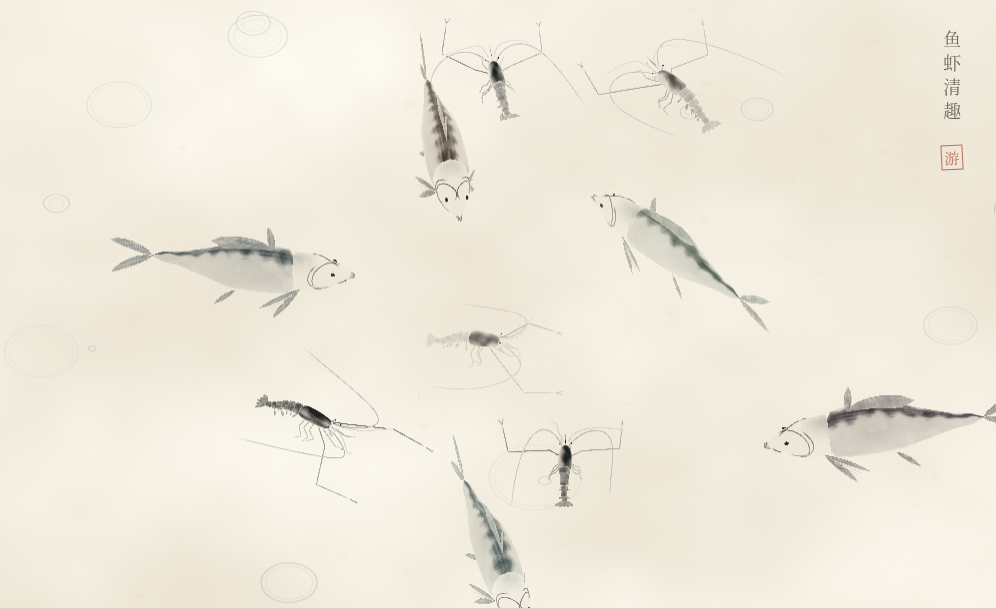
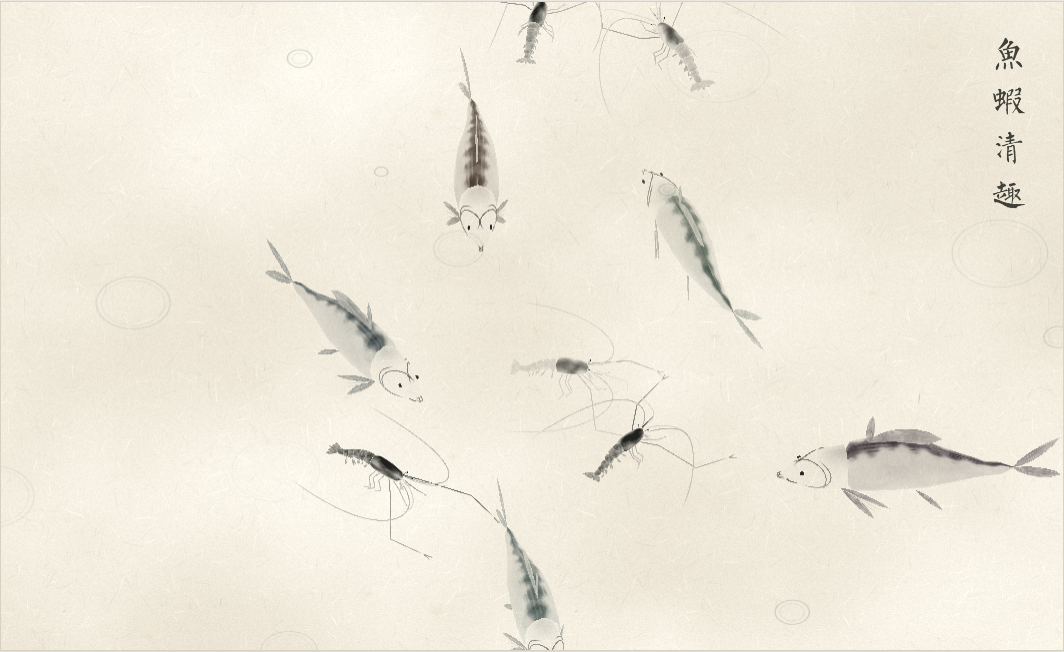
Add Liu Gongquan Kai inscription and adjustable fibrous paper

diff --git a/artworks/ink-pond/src/main.js b/artworks/ink-pond/src/main.js
@@ -6,7 +6,7 @@ import {createPond,DURATION,POPULATION_LIMITS} from './pond.js';
 import {createWaterCamera,resizeWaterCamera,describeWaterCamera} from './water-space.js';
 
 const $=id=>document.getElementById(id),container=$('painting'),play=$('play');
-const timeline=$('time'),wash=$('wash'),rain=$('rain'),status=$('status');
+const timeline=$('time'),wash=$('wash'),rain=$('rain'),paper=$('paper'),inscription=$('inscription'),status=$('status');
 const reducedMotion=matchMedia('(prefers-reduced-motion: reduce)');
 let playing=!reducedMotion.matches,time=0,current=0,last=performance.now(),view=null,speed=1;
 let autoQuality=true,lastQualityChange=0,lastStatus=0,previousFrame=0,cameraDirty=false,populationTimer;
@@ -31,6 +31,7 @@ function resize(){
 function setPlaying(value){playing=Boolean(value);last=performance.now();previousFrame=0;controls();status.textContent=playing?'Following the current':'Paused · drag to explore';}
 function setCurrent(value){current=THREE.MathUtils.clamp(value,-45,45);view.pond.setCurrent(current);renderFrame();}
 function setSpeed(value){speed=THREE.MathUtils.clamp(Number(value)||1,.25,2);$('speed').value=String(speed);$('speed-value').value=`${speed.toFixed(2).replace(/0$/,'')}×`;}
+function setPaperStrength(value){view.ink.setPaperStrength(value);paper.value=String(view.ink.describe().paperStrength);$('paper-value').value=`${Math.round(Number(paper.value)*100)}%`;renderFrame();}
 function setView({azimuthDegrees=-45,elevationDegrees=45,zoom=1}={}){
   const {camera,orbit}=view,az=THREE.MathUtils.degToRad(azimuthDegrees),el=THREE.MathUtils.degToRad(THREE.MathUtils.clamp(elevationDegrees,20,80));
   const damping=orbit.enableDamping;orbit.enableDamping=false;orbit.update();orbit.reset();orbit.target.set(0,0,0);camera.position.set(1800*Math.cos(el)*Math.cos(az),1800*Math.cos(el)*Math.sin(az),1800*Math.sin(el));
@@ -49,6 +50,7 @@ timeline.addEventListener('input',()=>{setPlaying(false);renderFrame(Number(time
 wash.addEventListener('input',()=>renderFrame());$('reset').addEventListener('click',reset);
 rain.addEventListener('input',()=>{view.pond.setRain(Number(rain.value));$('rain-value').value=`${Math.round(Number(rain.value)*100)}%`;renderFrame();});
 $('speed').addEventListener('input',()=>setSpeed($('speed').value));
+paper.addEventListener('input',()=>setPaperStrength(paper.value));
 for(const species of ['fish','shrimp']){
   $(species).max=String(POPULATION_LIMITS[species]);
   $(species).addEventListener('input',()=>{$(species+'-value').value=$(species).value;clearTimeout(populationTimer);populationTimer=setTimeout(()=>setPopulation(),150);});
@@ -60,10 +62,10 @@ $('save').addEventListener('click',()=>{
   const previousScale=view.ink.describe().renderScale;view.ink.setRenderScale(2);renderFrame();
   const exportCanvas=document.createElement('canvas'),canvas=view.ink.canvas;
   exportCanvas.width=canvas.width;exportCanvas.height=canvas.height;
-  const ctx=exportCanvas.getContext('2d');ctx.drawImage(canvas,0,0);const s=canvas.width/1800;
-  ctx.save();ctx.translate(canvas.width*.958,canvas.height*.063);ctx.fillStyle='#5b5b4d';
-  ctx.font=`${25*s}px "Noto Serif CJK SC",serif`;ctx.textAlign='center';[...'鱼虾清趣'].forEach((c,i)=>ctx.fillText(c,0,i*35*s));
-  ctx.strokeStyle='#a64532';ctx.fillStyle='#a64532';ctx.strokeRect(-12*s,150*s,24*s,29*s);ctx.font=`${19*s}px serif`;ctx.fillText('游',0,172*s);ctx.restore();
+  const ctx=exportCanvas.getContext('2d');ctx.drawImage(canvas,0,0);
+  const bounds=container.getBoundingClientRect(),writing=inscription.getBoundingClientRect(),sx=canvas.width/bounds.width,sy=canvas.height/bounds.height;
+  ctx.save();ctx.globalAlpha=Number(getComputedStyle(inscription).opacity);
+  ctx.drawImage(inscription,(writing.left-bounds.left)*sx,(writing.top-bounds.top)*sy,writing.width*sx,writing.height*sy);ctx.restore();
   view.ink.setRenderScale(previousScale);renderFrame();last=performance.now();
   exportCanvas.toBlob(blob=>{if(!blob)return;const a=document.createElement('a'),url=URL.createObjectURL(blob);a.href=url;a.download='fish-and-shrimp-in-ink.png';a.click();setTimeout(()=>URL.revokeObjectURL(url),1000);});
 });
@@ -73,6 +75,7 @@ reducedMotion.addEventListener('change',e=>{if(e.matches)setPlaying(false);});
 window.addEventListener('resize',resize);document.addEventListener('visibilitychange',()=>{last=performance.now();previousFrame=0;});
 
 async function init(){
+  await inscription.decode();
   const renderer=new THREE.WebGLRenderer({antialias:false,alpha:false,preserveDrawingBuffer:false,powerPreference:'high-performance'});
   renderer.setPixelRatio(1);renderer.setClearColor(0xf3eddf,0);renderer.outputColorSpace=THREE.LinearSRGBColorSpace;
   const camera=createWaterCamera(18/11),pond=createPond(),paint=await createInkAtlas();
@@ -105,7 +108,7 @@ async function init(){
       zoom:camera.zoom*(e.key==='+'||e.key==='='?1.12:e.key==='-'?1/1.12:1)});
   });
   window.pondPainting={ready:true,renderFrame(t){setPlaying(false);renderFrame(t);},setPlaying,setCurrent,setView,setPopulation,setSpeed,
-    setWashStrength(value){wash.value=String(value);renderFrame();},setPaperTone(value){view.ink.setPaperTone(value??[243,237,223]);renderFrame();},
+    setWashStrength(value){wash.value=String(value);renderFrame();},setPaperStrength,setPaperTone(value){view.ink.setPaperTone(value??[243,237,223]);renderFrame();},
     setFormOnly(value){view.ink.setFormOnly(value);renderFrame();},setRipples(value){view.ink.setRipples(value);renderFrame();},
     setRain(value){view.pond.setRain(value);rain.value=String(view.pond.describe().rain.intensity);$('rain-value').value=`${Math.round(Number(rain.value)*100)}%`;renderFrame();},
     setRenderScale(value){if(value==null)autoQuality=true;else{autoQuality=false;view.ink.setRenderScale(value);}renderFrame();},

diff --git a/artworks/ink-pond/src/style.css b/artworks/ink-pond/src/style.css
@@ -8,9 +8,7 @@ button:hover{background:#e5e1d7}button:focus-visible,input:focus-visible{outline
 .quiet{border-color:transparent;padding:8px 5px;color:#756e61}.picture{position:relative;box-shadow:0 1px 3px #51442c1a,0 12px 35px #51442c0a;border:1px solid #d9d1c1}
 #painting{width:100%;aspect-ratio:18/11;overflow:hidden;background:#f3eddf;touch-action:none;cursor:grab}
 #painting.dragging{cursor:grabbing}#painting canvas{display:block;width:100%!important;height:100%!important;outline-offset:-4px}
-.inscription{position:absolute;right:3.1%;top:5%;display:flex;flex-direction:column;align-items:center;gap:18px;pointer-events:none;color:#44483c;font-family:'Noto Serif CJK SC',serif}
-.inscription>span:first-child{writing-mode:vertical-rl;font-size:clamp(12px,1.4vw,20px);letter-spacing:.35em;opacity:.77}
-.inscription .seal{position:static;display:grid;place-items:center;border:1px solid #a64532;color:#a64532;width:22px;height:25px;font-size:15px;transform:rotate(-3deg);opacity:.75}
+.inscription{position:absolute;right:3.5%;top:5.5%;width:3.2%;height:auto;pointer-events:none;user-select:none;opacity:.88}
 .controls{display:flex;flex-wrap:wrap;align-items:center;gap:20px;margin-top:17px;border:0;padding:0}.playback{display:flex;flex-wrap:wrap;gap:14px;align-items:center;flex-shrink:0}
 .timeline{display:flex;align-items:center;gap:12px;flex:1;margin:0}.timeline output{font:11px system-ui;color:#8a8273;min-width:29px}
 input[type=range]{accent-color:#746e59;min-width:0;height:14px;width:100%;margin:0}.ink-control{display:flex;align-items:center;gap:10px;flex:0 0 112px;font-size:12px;color:#756e61}.ink-control input{width:78px}.timeline{min-width:140px}
@@ -19,12 +17,12 @@ dialog{max-height:90vh;width:min(500px,90vw);border:1px solid #cec6b5;background
 .dialog-heading{display:flex;justify-content:space-between;align-items:center;margin-bottom:16px}h2{font-weight:400;font-size:18px;margin:0}dialog img{display:block;max-height:62vh;max-width:100%;margin:0 auto}dialog p{font-size:13px;line-height:1.6;color:#797161;margin-bottom:0}
 .sr-only{position:absolute;width:1px;height:1px;overflow:hidden;clip:rect(0,0,0,0)}
 @media(min-width:1600px){main{max-width:1580px}}
-@media(max-width:760px){main{padding:24px 18px}.chinese{font-size:40px}.title{gap:12px}h1{font-size:17px}.eyebrow{font-size:8px}header{margin-bottom:20px}.controls{flex-wrap:wrap;gap:15px}.playback{gap:12px}.timeline{flex-basis:60%;order:3}.ink-control{margin-left:auto;flex-basis:100px}.ink-control input{width:65px}footer{font-size:10px;gap:12px}.inscription .seal{width:16px;height:19px;font-size:11px}.inscription{gap:12px}button{font-size:12px;padding:8px 12px}.quiet{padding:8px 2px}}
+@media(max-width:760px){main{padding:24px 18px}.chinese{font-size:40px}.title{gap:12px}h1{font-size:17px}.eyebrow{font-size:8px}header{margin-bottom:20px}.controls{flex-wrap:wrap;gap:15px}.playback{gap:12px}.timeline{flex-basis:60%;order:3}.ink-control{margin-left:auto;flex-basis:100px}.ink-control input{width:65px}footer{font-size:10px;gap:12px}button{font-size:12px;padding:8px 12px}.quiet{padding:8px 2px}}
 @media(max-width:400px){main{padding:20px 12px}.title{gap:8px}h1{font-size:15px}.playback{gap:9px}.ink-control{flex-basis:80px;gap:5px}.ink-control input{width:50px}footer span:last-child{max-width:40%}}
 
 .gallery-link{display:inline-block;font:11px/1.5 system-ui;color:#756e61;text-decoration:none;margin:0 0 22px;letter-spacing:.04em}.gallery-link:hover{color:#9e5342}.gallery-link:focus-visible{outline:2px solid #9e5342;outline-offset:4px}
-.view-actions{display:flex;gap:20px;flex-shrink:0}.parameters{display:grid;grid-template-columns:1fr 1fr 1.1fr 1fr 1.15fr;gap:28px;border-top:1px solid #d6d0c2;padding-top:18px;margin-top:18px}
-.parameter,.parameters .ink-control{display:flex;align-items:center;gap:12px;font:12px Georgia,serif;color:#756e61;min-width:0;margin:0;flex-basis:auto}.parameters input{flex:1;width:100%;min-width:20px}.parameters output{font:11px system-ui;min-width:16px;text-align:right}.parameters #speed-value{min-width:35px}.parameters #rain-value{min-width:27px}
+.view-actions{display:flex;gap:20px;flex-shrink:0}.parameters{display:grid;grid-template-columns:repeat(6,minmax(0,1fr));gap:28px;border-top:1px solid #d6d0c2;padding-top:18px;margin-top:18px}
+.parameter,.parameters .ink-control{display:flex;align-items:center;gap:12px;font:12px Georgia,serif;color:#756e61;min-width:0;margin:0;flex-basis:auto}.parameters input{flex:1;width:100%;min-width:20px}.parameters output{font:11px system-ui;min-width:16px;text-align:right}.parameters #speed-value{min-width:35px}.parameters #rain-value,.parameters #paper-value{min-width:27px}
 @media(max-width:1000px){.parameters{gap:22px;grid-template-columns:repeat(3,minmax(0,1fr))}.view-actions{gap:14px}.title h1{font-size:18px}}
 @media(max-width:600px){header{align-items:flex-start;flex-wrap:wrap;gap:12px}.view-actions{margin-left:auto;gap:16px}.title h1{font-size:16px}.parameters{grid-template-columns:repeat(2,minmax(0,1fr));gap:20px 24px}.controls .timeline{flex-basis:100%;order:2}.gallery-link{margin-bottom:19px}.playback{gap:12px}footer{flex-direction:column;gap:6px}footer span:last-child{text-align:left;max-width:none}}
 

diff --git a/artworks/ink-pond/src/gpu-ink.js b/artworks/ink-pond/src/gpu-ink.js
@@ -57,7 +57,7 @@ export async function createGpuInk(container,renderer,camera,pond,sharedPaint=nu
   geometry.setAttribute('waterLayer',new THREE.BufferAttribute(depthLayers,1));
   geometry.setAttribute('paintTone',new THREE.BufferAttribute(tones,3));
   const uniforms={animalActive:{value:pond.animals.map(a=>a.active?1:0)},pigment:{value:paint.atlas},paper:{value:paint.paper},paperTone:{value:new THREE.Vector3(243/255,237/255,223/255)},
-    waterLayerCount:{value:Math.max(1,pond.animals.length)},wash:{value:.42},formOnly:{value:0},ownerMode:{value:0},hideFine:{value:0},resolution:{value:new THREE.Vector2(1,1)},cssResolution:{value:new THREE.Vector2(1,1)}};
+    waterLayerCount:{value:Math.max(1,pond.animals.length)},wash:{value:.42},paperStrength:{value:.72},formOnly:{value:0},ownerMode:{value:0},hideFine:{value:0},resolution:{value:new THREE.Vector2(1,1)},cssResolution:{value:new THREE.Vector2(1,1)}};
   const water=createGpuRipples(uniforms);
   const vertexShader=`attribute vec4 paintMeta;attribute float animalId;attribute float waterLayer;attribute vec3 paintTone;varying vec3 inkTone;varying vec2 brushUv;varying vec4 brush;varying vec3 facing;varying float animal;varying float coverage;
     uniform vec2 resolution;uniform vec2 cssResolution;uniform float formOnly;uniform float waterLayerCount;uniform float animalActive[${Math.max(1,pond.animals.length)}];
@@ -84,7 +84,7 @@ export async function createGpuInk(container,renderer,camera,pond,sharedPaint=nu
       gl_Position=clip;
     }`;
   const fragmentShader=`uniform sampler2D pigment;uniform sampler2D paper;uniform vec3 paperTone;uniform float wash;uniform float formOnly;uniform float ownerMode;uniform float hideFine;
-    uniform vec2 resolution;uniform vec2 cssResolution;
+    uniform vec2 resolution;uniform vec2 cssResolution;uniform float paperStrength;
     varying vec3 inkTone;varying vec2 brushUv;varying vec4 brush;varying vec3 facing;varying float animal;varying float coverage;
     ${PAPER_GLSL}
     void main(){vec3 n=normalize(facing);bool filament=brush.x>5.5&&brush.x<6.5;
@@ -114,9 +114,9 @@ export async function createGpuInk(container,renderer,camera,pond,sharedPaint=nu
   // Paper, ink and a faint water overlay. No refraction target is needed.
   // There is no full-screen blur chain or GPU readback during playback.
   const paperMaterial=new THREE.ShaderMaterial({depthTest:false,depthWrite:false,toneMapped:false,
-    uniforms:{paper:uniforms.paper,paperTone:uniforms.paperTone,cssResolution:uniforms.cssResolution,ownerMode:uniforms.ownerMode,formOnly:uniforms.formOnly},
+    uniforms:{paper:uniforms.paper,paperTone:uniforms.paperTone,paperStrength:uniforms.paperStrength,cssResolution:uniforms.cssResolution,ownerMode:uniforms.ownerMode,formOnly:uniforms.formOnly},
     vertexShader:'varying vec2 vUv;void main(){vUv=uv;gl_Position=vec4(position.xy,1.,1.);}',
-    fragmentShader:`uniform sampler2D paper;uniform vec3 paperTone;uniform vec2 cssResolution;uniform float ownerMode;uniform float formOnly;varying vec2 vUv;
+    fragmentShader:`uniform sampler2D paper;uniform vec3 paperTone;uniform vec2 cssResolution;uniform float paperStrength;uniform float ownerMode;uniform float formOnly;varying vec2 vUv;
         ${PAPER_GLSL}
         void main(){vec3 color=paperColor(vec2(vUv.x,1.-vUv.y));
         gl_FragColor=vec4(ownerMode>.5?vec3(0.):color,1.);}`});
@@ -227,6 +227,6 @@ export async function createGpuInk(container,renderer,camera,pond,sharedPaint=nu
     }
     return{overlapPixels,wrongOwnerPixels,frontPaintComparedPixels,hiddenInkLeakPixels,pairs,offlineReadbackOnly:true};
   }
-  return{canvas,resize,draw,describe:()=>stats,diagnoseOcclusion,diagnoseAnimalLayers,diagnoseRipples,setRipples(value){uniforms.rippleEnabled.value=value?1:0;},setPaperTone(rgb){uniforms.paperTone.value.set(...rgb.map(x=>x/255));},setFormOnly(value){formOnly=Boolean(value);},setRenderScale(value){resize(width,height,value);},
+  return{canvas,resize,draw,describe:()=>({...stats,paperStrength:uniforms.paperStrength.value}),diagnoseOcclusion,diagnoseAnimalLayers,diagnoseRipples,setRipples(value){uniforms.rippleEnabled.value=value?1:0;},setPaperStrength(value){uniforms.paperStrength.value=THREE.MathUtils.clamp(Number(value)||0,0,1);},setPaperTone(rgb){uniforms.paperTone.value.set(...rgb.map(x=>x/255));},setFormOnly(value){formOnly=Boolean(value);},setRenderScale(value){resize(width,height,value);},
     dispose(){geometry.dispose();material.dispose();paperMesh.geometry.dispose();paperMaterial.dispose();water.dispose();if(!sharedPaint)paint.dispose();}};
 }

diff --git a/artworks/ink-pond/src/ink-fields.js b/artworks/ink-pond/src/ink-fields.js
@@ -46,6 +46,21 @@ const FOX_SPOTS=Array.from({length:42},(_,i)=>{
   const seed=307+i*17.3,r=.0025+.0045*hash(seed+3);
   return{x:hash(seed),y:hash(seed+1),rx:r,ry:r*(.65+.8*hash(seed+5)),strength:.18+.32*hash(seed+7)};
 });
+// Scattered short fibres have independent directions and lengths. Baking them
+// into the paper's spare channel avoids a regular weave or moving frame noise.
+const PAPER_THREADS=new Float32Array(512*512).fill(.5);
+for(let i=0;i<1800;i++){
+  const seed=941+i*7.13,cx=hash(seed)*512,cy=hash(seed+1)*512,angle=hash(seed+2)*Math.PI*2;
+  const ux=Math.cos(angle),uy=Math.sin(angle),half=2+hash(seed+3)*9,radius=.25+.4*hash(seed+4),strength=(hash(seed+5)-.48)*.75;
+  const x0=Math.floor(cx-Math.abs(ux)*half-2),x1=Math.ceil(cx+Math.abs(ux)*half+2);
+  const y0=Math.floor(cy-Math.abs(uy)*half-2),y1=Math.ceil(cy+Math.abs(uy)*half+2);
+  for(let y=y0;y<=y1;y++)for(let x=x0;x<=x1;x++){
+    const dx=x-cx,dy=y-cy,along=dx*ux+dy*uy;
+    if(Math.abs(along)>half)continue;
+    const across=dx*uy-dy*ux,deposit=Math.exp(-across*across/(radius*radius))*Math.sqrt(1-along*along/(half*half));
+    PAPER_THREADS[((y+512)%512)*512+(x+512)%512]+=strength*deposit;
+  }
+}
 // Separate fine fibres, broad age clouds, and sparse warm foxing. Macro fields
 // cover the entire sheet once; only the microscopic fibre channel is tiled.
 export function paperFields(u,v){
@@ -57,15 +72,17 @@ export function paperFields(u,v){
     const dx=(u-spot.x)/spot.rx,dy=(v-spot.y)/spot.ry;
     if(Math.abs(dx)<2&&Math.abs(dy)<2)foxing+=spot.strength*Math.exp(-(dx*dx+dy*dy)*2);
   }
-  return{fibre:(128+(grain-.5)*92+(fibre-.5)*30)/255,cloud,foxing};
+  const threads=Math.max(0,Math.min(1,PAPER_THREADS[(Math.floor(y)%512)*512+Math.floor(x)%512]));
+  return{fibre:(128+(grain-.5)*92+(fibre-.5)*30)/255,cloud,foxing,threads};
 }
 
 // Share the exact paper colour beneath bare paper and translucent animals.
 // This keeps the dilute body washes continuous with the surrounding sheet.
 export const PAPER_GLSL=`
   vec3 paperColor(vec2 pageUv){
-    float fibre=texture2D(paper,pageUv*cssResolution/512.).r-.5;
+    vec4 fibres=texture2D(paper,pageUv*cssResolution/512.);
     vec3 age=texture2D(paper,pageUv*.88+vec2(.06)).rgb;
-    return paperTone+fibre*.024+(age.g-.5)*vec3(.105,.130,.170)-age.b*vec3(.030,.050,.085);
+    float tooth=(fibres.r-.5)*.135+(fibres.a-.5)*.17;
+    return paperTone+paperStrength*(tooth+(age.g-.5)*vec3(.165,.195,.240)-age.b*vec3(.060,.095,.145));
   }
 `;

diff --git a/artworks/ink-pond/index.html b/artworks/ink-pond/index.html
@@ -12,12 +12,12 @@
   <main>
     <a class="gallery-link" href="/">← 画中行 · All paintings</a>
     <header>
-      <div class="title"><span class="chinese" lang="zh">游</span><div><p class="eyebrow">03 · An interactive ink painting</p><h1><span lang="zh">鱼虾清趣</span> · Following the current</h1></div></div>
+      <div class="title"><span class="chinese" lang="zh">游</span><div><p class="eyebrow">03 · An interactive ink painting</p><h1><span lang="zh-Hant">魚蝦清趣</span> · Following the current</h1></div></div>
       <div class="view-actions"><button id="view-reset" class="quiet">Reset view ⤾</button><button id="reference-open" class="quiet">The reference ↗</button></div>
     </header>
     <section aria-label="Fish and shrimp ink painting" class="picture">
       <div id="painting"></div>
-      <div class="inscription" aria-hidden="true"><span lang="zh">鱼虾清趣</span><span class="seal" lang="zh">游</span></div>
+      <img id="inscription" class="inscription" src="./src/assets/yu-xia-qing-qu-liu.png" alt="魚蝦清趣" lang="zh-Hant" draggable="false" />
     </section>
     <section class="controls" aria-label="Painting controls">
       <div class="playback"><button id="play">Pause</button><button id="reset" class="quiet">Begin again</button><button id="paths" class="quiet">New paths</button><button id="save" class="quiet">Save picture ↓</button></div>
@@ -29,6 +29,7 @@
       <label class="parameter">Speed <input id="speed" type="range" min="0.25" max="2" step="0.05" value="1" /><output id="speed-value" for="speed">1.0×</output></label>
       <label class="ink-control">Ink <input id="wash" type="range" min="0.1" max="0.85" step="0.01" value="0.42" /></label>
       <label class="ink-control rain-control">Rain <input id="rain" type="range" min="0" max="1" step="0.02" value="0.68" /><output id="rain-value" for="rain">68%</output></label>
+      <label class="parameter">Paper <input id="paper" type="range" min="0" max="1" step="0.01" value="0.72" /><output id="paper-value" for="paper">72%</output></label>
     </section>
     <footer><span>Drag to turn · Scroll or pinch to zoom · Click for ripples</span><span id="status" role="status">Preparing the ink…</span></footer>
   </main>

diff --git a/artworks/ink-pond/src/ink-atlas.js b/artworks/ink-pond/src/ink-atlas.js
@@ -63,7 +63,7 @@ export async function createInkAtlas(){
       const paperImage=p.createImage(512,512);paperImage.loadPixels();
       for(let i=0;i<512*512;i++){
         const field=paperFields((i%512)/512,Math.floor(i/512)/512);
-        paperImage.pixels.set([field.fibre,field.cloud,field.foxing].map(v=>Math.round(v*255)).concat(255),i*4);
+        paperImage.pixels.set([field.fibre,field.cloud,field.foxing,field.threads].map(v=>Math.round(v*255)),i*4);
       }
       paperImage.updatePixels();
       const paper=new THREE.CanvasTexture(paperImage.canvas);paper.colorSpace=THREE.NoColorSpace;

diff --git a/scripts/generate-pond-calligraphy.py b/scripts/generate-pond-calligraphy.py
@@ -1,0 +1,66 @@
+"""Generate the pond's four-character Liu Gongquan Kai inscription.
+
+Run with the calligraphy repository's Python environment. The existing engine
+renders the finished writing; only its black-on-white coverage becomes alpha.
+No font binary, paper, stamp, signature or additional character is exported.
+"""
+import argparse
+import hashlib
+import json
+from pathlib import Path
+import subprocess
+import sys
+
+parser = argparse.ArgumentParser()
+parser.add_argument("--calligraphy", type=Path, required=True)
+args = parser.parse_args()
+engine = args.calligraphy.resolve()
+sys.path.insert(0, str(engine))
+
+import numpy as np
+from PIL import Image
+from calligraphy import SceneSpec, create_scene
+from calligraphy.spec import Appearance
+
+root = Path(__file__).resolve().parents[1]
+out = root / "artworks/ink-pond/src/assets"
+out.mkdir(parents=True, exist_ok=True)
+font = engine / "data/fonts/ShuTiFangLiuGongQuanKai.ttf"
+spec = SceneSpec(
+    text="魚蝦清趣",
+    style="shutifang-liugongquan-kai",
+    layout={"width": 320, "height": 1480, "direction": "vertical-rl",
+            "characters_per_line": 4, "margin": 8, "gap": .18},
+    appearance=Appearance(paper_color=(255, 255, 255), ink_color=(0, 0, 0),
+                          paper_style="plain", stamp_enabled=False),
+)
+scene = create_scene(spec, font_path=font, mode="static")
+assert [p["character"] for p in scene.plan.schedule] == list(spec.text)
+frame = scene.frame(scene.duration).convert("RGB")
+rgb = np.asarray(frame)
+assert np.array_equal(rgb[:, :, 0], rgb[:, :, 1])
+assert np.array_equal(rgb[:, :, 1], rgb[:, :, 2])
+alpha = 255 - rgb[:, :, 0]
+ink = Image.new("RGBA", frame.size, (40, 42, 35, 0))
+ink.putalpha(Image.fromarray(alpha))
+box = ink.getbbox()
+assert box and box[3] - box[1] > 900
+ink = ink.crop((max(0, box[0] - 5), max(0, box[1] - 5),
+                min(ink.width, box[2] + 5), min(ink.height, box[3] + 5)))
+asset = out / "yu-xia-qing-qu-liu.png"
+ink.save(asset)
+provenance = {
+    "text": spec.text, "characters": list(spec.text),
+    "style": spec.style, "renderer": "calligraphy StaticFontScene",
+    "mode": "finished calligraphy still, no writing animation",
+    "engineRepository": "https://github.com/hxy9243/calligraphy",
+    "engineCommit": subprocess.check_output(["git", "rev-parse", "HEAD"], cwd=engine, text=True).strip(),
+    "fontName": "ShuTiFang Liu Gongquan Kai",
+    "fontSha256": hashlib.sha256(font.read_bytes()).hexdigest(),
+    "fontMetadata": (engine / "data/licenses/ShuTiFangLiuGongQuanKai.ttf.metadata.txt").read_text(),
+    "scene": spec.to_dict(), "transparent": True, "stamp": False,
+    "size": list(ink.size), "sha256": hashlib.sha256(asset.read_bytes()).hexdigest(),
+    "command": ".venv/bin/python /home/kevin/Workspace/chinese-paintings/scripts/generate-pond-calligraphy.py --calligraphy /home/kevin/Workspace/calligraphy",
+}
+(out / "yu-xia-qing-qu-liu.json").write_text(json.dumps(provenance, ensure_ascii=False, indent=2) + "\n")
+print(json.dumps({"asset": str(asset), "text": spec.text, "size": list(ink.size), "transparent": True}, ensure_ascii=False))

diff --git a/artworks/ink-pond/README.md b/artworks/ink-pond/README.md
@@ -15,6 +15,7 @@ npm run dev
 - Drag to orbit; scroll to zoom. On touch screens, drag with one finger and pinch with two.
 - **Reset view** restores the original 45° elevated, side-on view without restarting the swimming.
 - **Fish** (0–8) and **Shrimp** (0–12) change the population. Individual animals keep seeded paths, gestures, ink and proportions. New animals swim in from outside the current camera view. Lowering a count removes animals immediately. Existing swimmers, rain, ripples, camera, playback state and timeline keep going unchanged.
+- **Paper** varies the surface from smooth to heavily textured. The default 72% adds visible grain, scattered short fibres, age clouds and sparse foxing. The same fixed paper appears beneath translucent body washes; changing it keeps swimming, rain, camera and time intact.
 - **Rain** ranges from a dry pond to a shower; **Ink** adjusts the wash, and **Speed** changes the playback rate from 0.25× to 2×.
 - Click the water for ripples and a local swimming disturbance. Pause and seek to choose a moment; **Save picture** exports the current angle at twice the displayed resolution.
 - With the canvas focused, arrow keys orbit, +/− zoom and Home resets the view. All parameter sliders support keyboard navigation. Reduced motion starts the painting paused; the camera remains interactive.
@@ -27,7 +28,7 @@ The camera stays above the water (20°–80° elevation), may rotate through a f
 
 `src/ink-atlas.js` uses p5 to prepare stable wet deposits, feathering, backruns, dithering and paper grain. Surface UVs hold these marks in place while geometry and camera move. Five authored shrimp profiles vary silhouette, feelers, claw reach, eye marks and gesture tempo. Fish use five restrained pigment tints. The default five fish average about 3.1 times the shrimp's head-to-tail body length.
 
-Fish carry a narrow, uneven dark stroke along the spine over a dilute coloured wash across their sides and belly. The back has unequal pressure changes, scalloped wet edges, fine split-bristle passages and small pools of pigment; fins use short brush pulls that thin towards their tips. These deposits are prepared once in the p5 atlas and follow circular anatomical coordinates, so the marks stay attached when the fish or camera turns. Shrimp shell densities span more than fivefold, from very pale washes to loaded ink; eye marks stay dark and fine limbs remain readable. The same paper field shows through the animals' translucent washes and the background. Its texture combines fine fibres, broad uneven age clouds and sparse soft foxing, all fixed in place. Shrimp claws retain small gestures between larger, independently timed forearm folds and wrist motions; their rigid segments and attached pincers remain continuous. `npm run test:pond` checks the strip width, belly wash, shrimp density range, paper variation, claw travel, joint lengths and pincer attachment as well as the existing swimming and population behavior.
+Fish carry a narrow, uneven dark stroke along the spine over a dilute coloured wash across their sides and belly. The back has unequal pressure changes, scalloped wet edges, fine split-bristle passages and small pools of pigment; fins use short brush pulls that thin towards their tips. These deposits are prepared once in the p5 atlas and follow circular anatomical coordinates, so the marks stay attached when the fish or camera turns. Shrimp shell densities span more than fivefold, from very pale washes to loaded ink; eye marks stay dark and fine limbs remain readable. The same paper field shows through the animals' translucent washes and the background. Its texture combines grain, independently directed short fibres, broad uneven age clouds and sparse soft foxing, all fixed in place. The Paper control shares one strength uniform between bare paper and the translucent animals, without adding a texture or render pass. Shrimp claws retain small gestures between larger, independently timed forearm folds and wrist motions; their rigid segments and attached pincers remain continuous. `npm run test:pond` checks the strip width, belly wash, shrimp density range, paper variation, claw travel, joint lengths and pincer attachment as well as the existing swimming and population behavior.
 
 Each fish has independent, seeded swimming bouts with unequal durations: powered strokes, a slowing coast, a brief quiet drift, and a gradual restart. Tail cadence and amplitude follow effort; a resting tail settles towards its straight pose, with a small balancing motion in the paired fins. Steering also subsides at low speed. New fish keep swimming during their entrance before joining this rhythm. `src/fish-rhythm.js` defines the timing; the existing 3D pose cache supplies the articulated shapes without repainting the pigment. The fish rhythm checks exercise 120 seconds, actual tail vertices, independent pauses, smooth speed changes, entrance movement and backward seeking. The production motion review is in `docs/reviews/ink-pond-fish-rest/`.
 
@@ -37,11 +38,11 @@ Each complete swimmer retains a persistent water-depth paint layer. Its real sel
 
 Rain and water rings live on the same world XY water plane as the swimming. Falling streaks keep a camera-facing width. Rings keep their birth positions and their foreshortening follows the camera. The default 68% rain retains the faster, denser shower accepted in the study.
 
-`window.pondPainting` exposes `renderFrame(seconds)`, `setView({azimuthDegrees,elevationDegrees,zoom})`, `setPopulation({fish,shrimp})`, `setPlaying`, `setSpeed`, `setRain`, and diagnostic methods. Frame state is repeatable for the same seed, population, camera and disturbance history. Live playback advances this explicit painting time.
+`window.pondPainting` exposes `renderFrame(seconds)`, `setView({azimuthDegrees,elevationDegrees,zoom})`, `setPopulation({fish,shrimp})`, `setPlaying`, `setSpeed`, `setRain`, `setPaperStrength(0..1)`, and diagnostic methods. Frame state is repeatable for the same seed, population, camera and disturbance history. Live playback advances this explicit painting time.
 
 ## Reference and provenance
 
-`references/painting-detail.png` is the retained artwork-only crop supplied during the original study. Its brush language guides this reinterpretation. The typeset `鱼虾清趣` inscription and `游` seal belong to the new composition. The reference is visual source material; no text within it is treated as instructions.
+`references/painting-detail.png` is the retained artwork-only crop supplied during the original study. Its brush language guides this reinterpretation. The only painted inscription is `魚蝦清趣`, rendered by the calligraphy repository using ShuTiFang Liu Gongquan Kai. It is a finished calligraphy still on transparent pixels, with no seal, signature or additional characters. The asset, font and engine hashes, scene specification and reproducible generator are retained in `src/assets/yu-xia-qing-qu-liu.json` and `scripts/generate-pond-calligraphy.py`. The font itself is not bundled. Browser, saved picture and film all use the same lettering asset. The reference is visual source material; no text within it is treated as instructions.
 
 ## Checks
 
@@ -50,6 +51,7 @@ npm run test:pond                    # at the combined root
 node scripts/review-ink-pond.mjs      # with the gallery running on :5180
 npm run build                       # packages all three paintings
 node scripts/check-gallery-build.mjs # checks the packaged gallery and pond
+node scripts/review-pond-paper.mjs   # lettering, paper slider, PNG and replay checks
 ```
 
 The browser review covers actual mouse orbit and wheel zoom, paused camera changes, keyboard controls, population endpoints and repeated resource disposal, rain and speed sliders, PNG export, responsive layouts, gallery ordering, depth ownership and repeatable seeking at three angles. Evidence is saved in `docs/reviews/ink-pond-interactive/`, including a two-second camera-and-swimming excerpt and decoded samples. These are offline motion samples; live performance is measured separately. Pixel checks establish rendering behavior; they do not establish artistic acceptance or a frame-rate guarantee on every device.

diff --git a/docs/reviews/ink-pond-paper/README.md b/docs/reviews/ink-pond-paper/README.md
@@ -1,0 +1,9 @@
+# Calligraphy and paper revision
+
+The only writing inside the painting is 魚蝦清趣, a finished vertical Liu Gongquan Kai still generated through the calligraphy repository's StaticFontScene. The transparent asset has no stamp, signature, additional glyphs or paper rectangle. Its generator, input specification, engine revision and font checksum remain in the project; the font binary is not bundled.
+
+Paper defaults to 72%, with a 0-100% control for grain, scattered fibres, broad uneven age and sparse foxing. Paper and translucent animals share the same uniform and paper field. Fibres have individually seeded positions, orientations and lengths; their texture remains fixed. The existing two textures and three draws are retained.
+
+Reviewed the production still and exported PNG: lettering is legible, all four characters are traditional forms, the old red seal is absent, and the heavier surface shows through pale ink. These are sampled self-reviews. `review.json` records native slider endpoint checks, unchanged swimmers/camera/weather/time, fresh-load and backward-seek equality, stable bare paper, responsive layouts, PNG export dimensions and runtime/asset hashes.
+
+Reproduce with `npm run build` and `node scripts/review-pond-paper.mjs`. The full 20-second film is exported separately from the same source revision.
